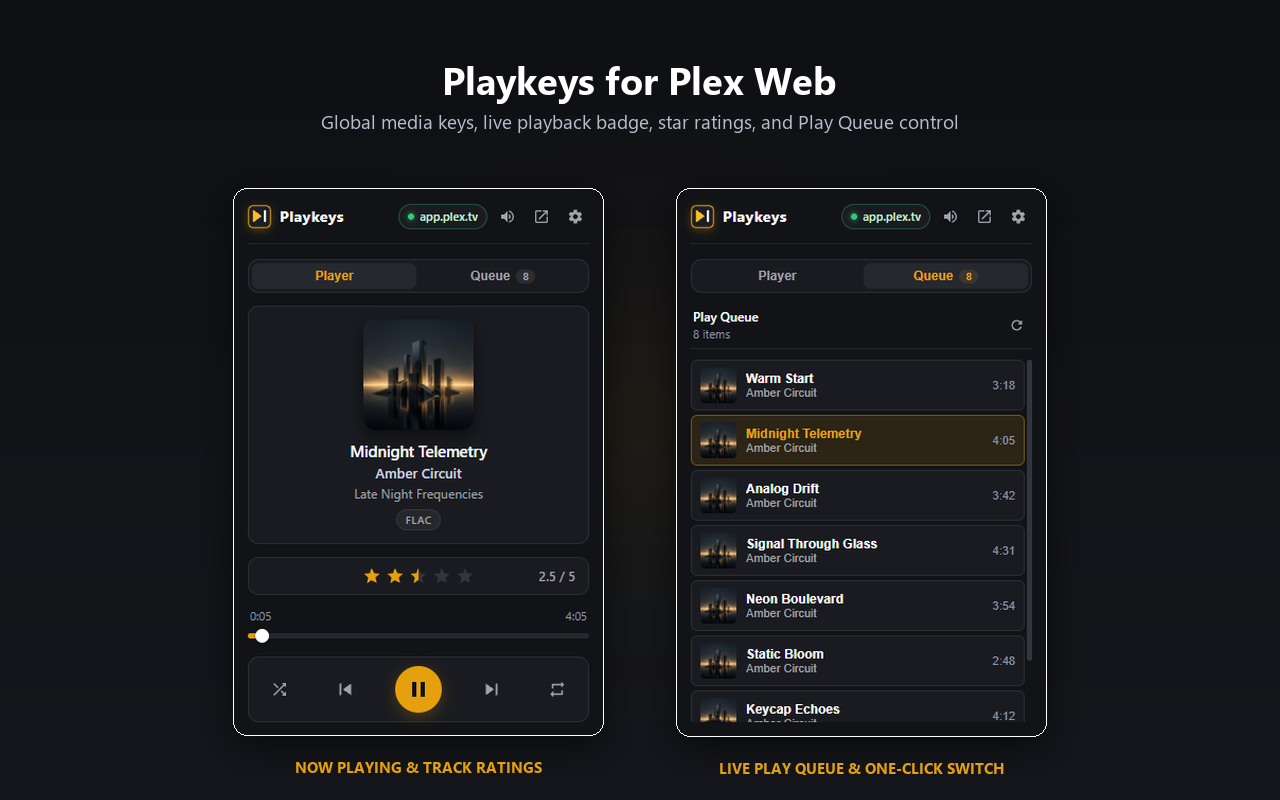
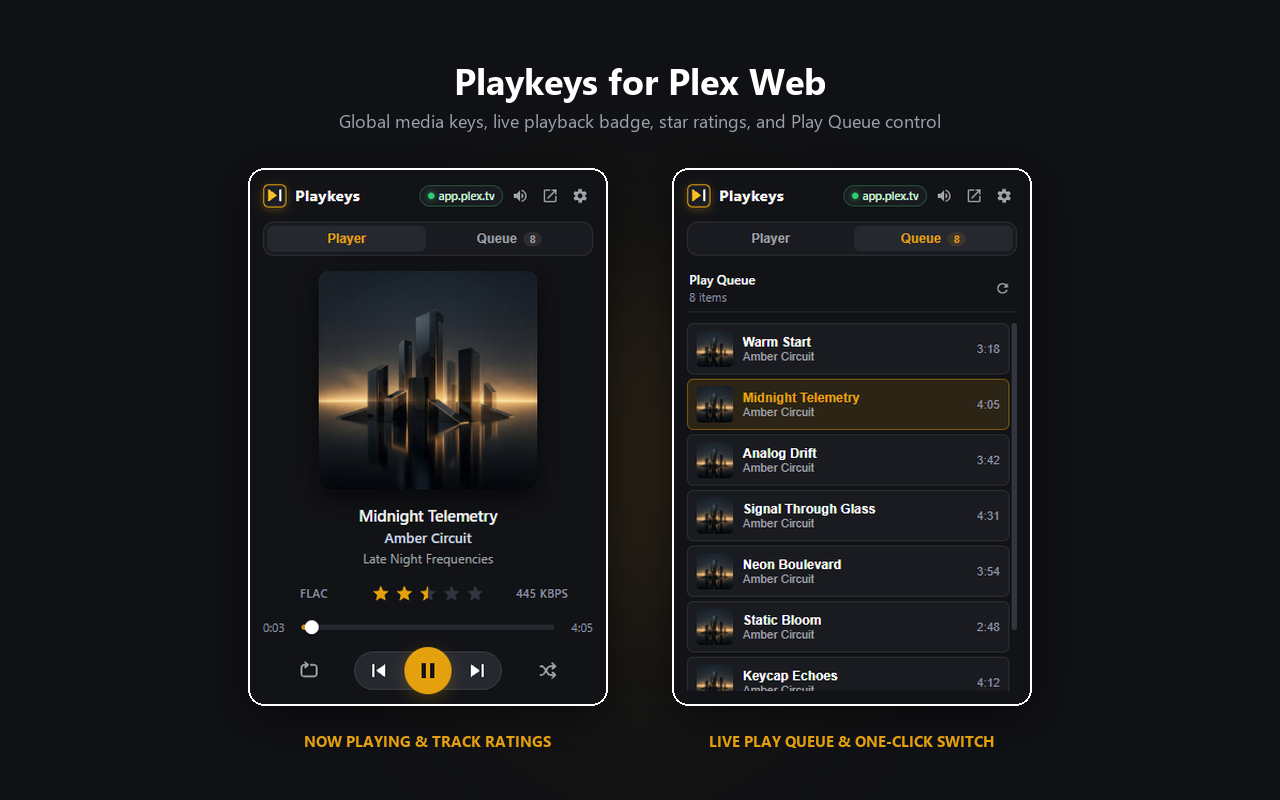
docs: update screenshots for v1.1.4 and remove desktop screenshot

diff --git a/README.md b/README.md
@@ -28,8 +28,6 @@ A Chrome extension that adds global media keys, playback status badges, and a po
 
 ![Playkeys Player and Play Queue](docs/images/cws-02-player-and-queue.png)
 
-![Playkeys for Plex Web in Action](docs/images/cws-01-plex-web-in-action.png)
-
 ---
 
 ## Keyboard Shortcuts
